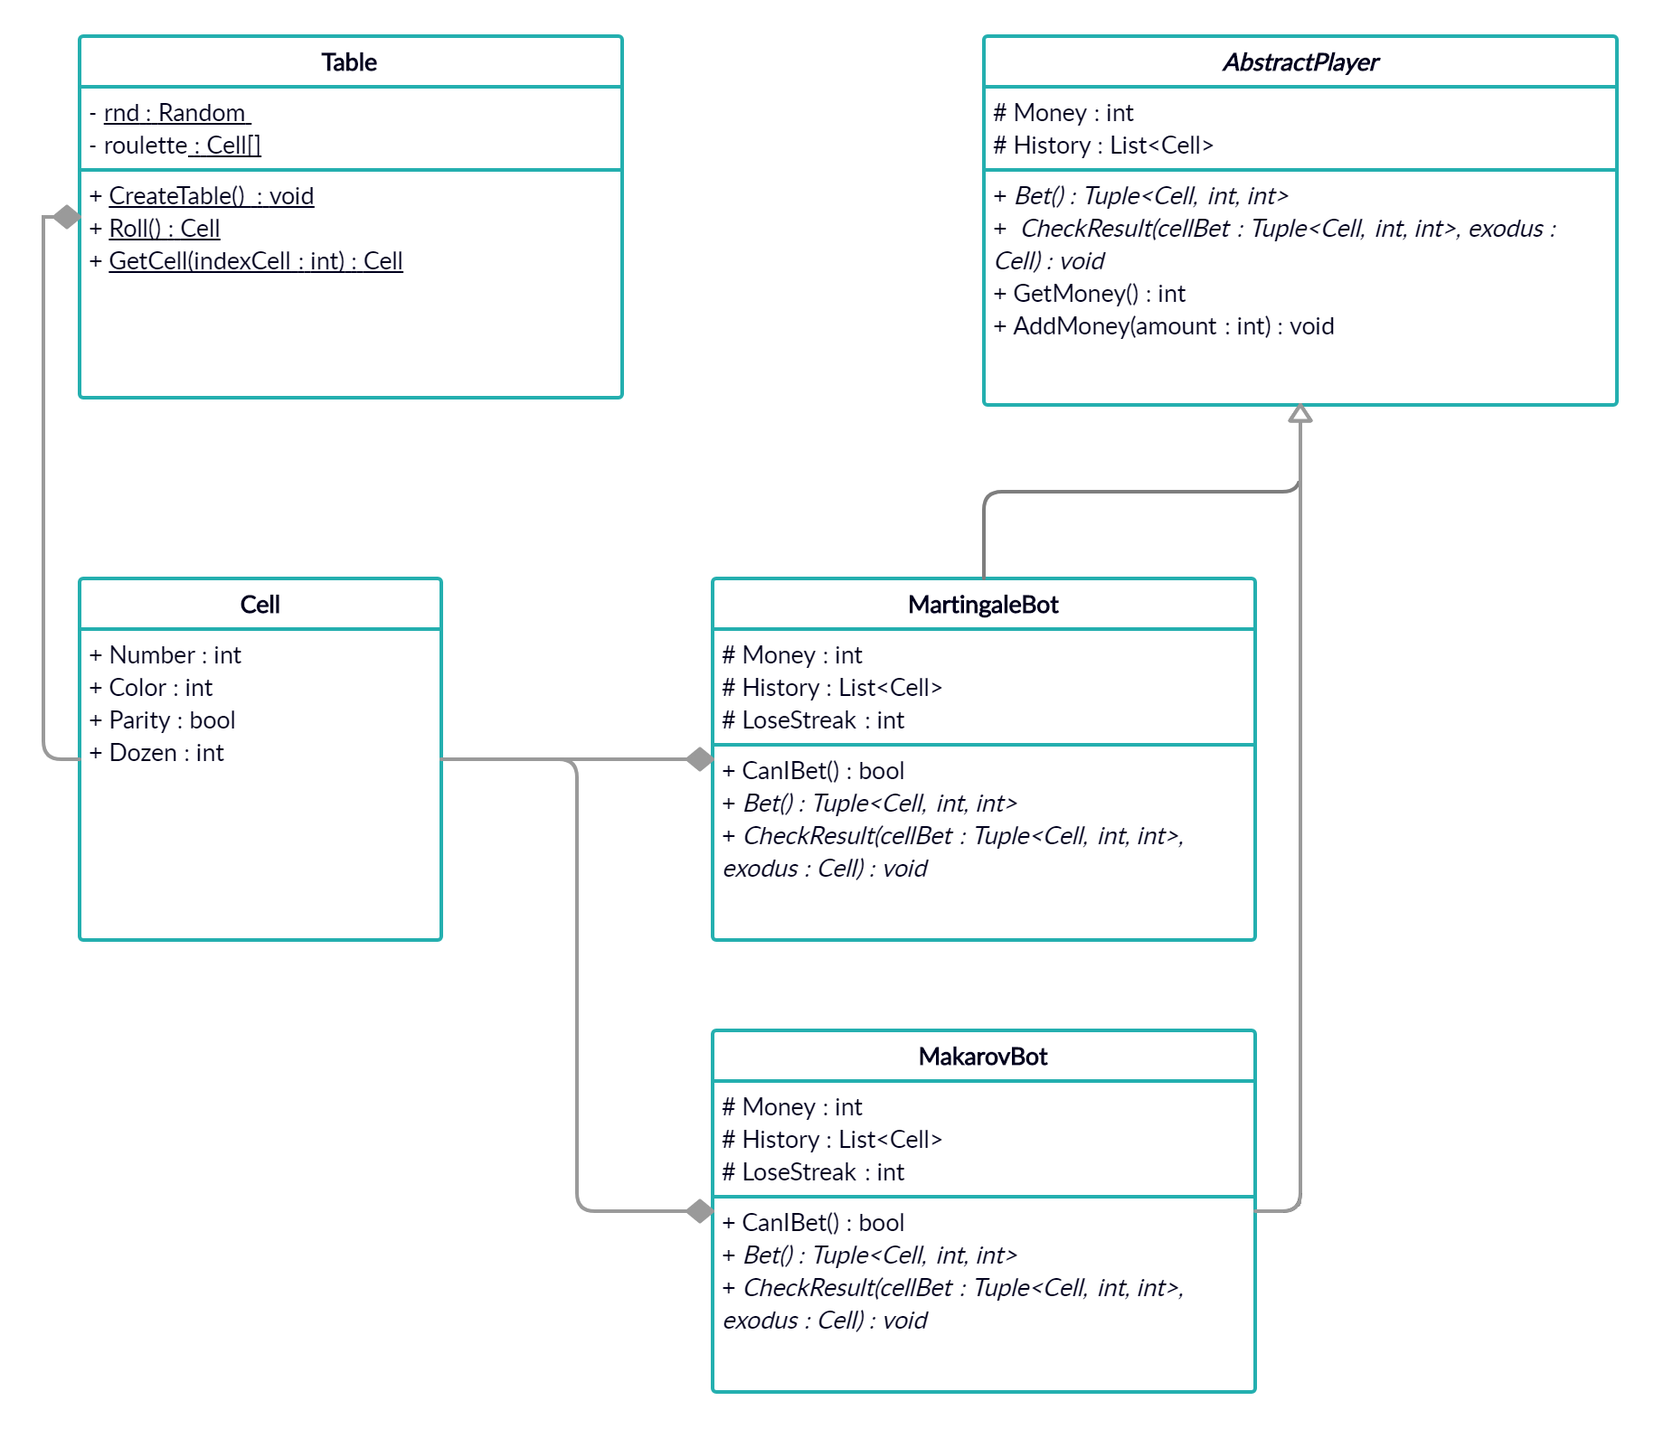
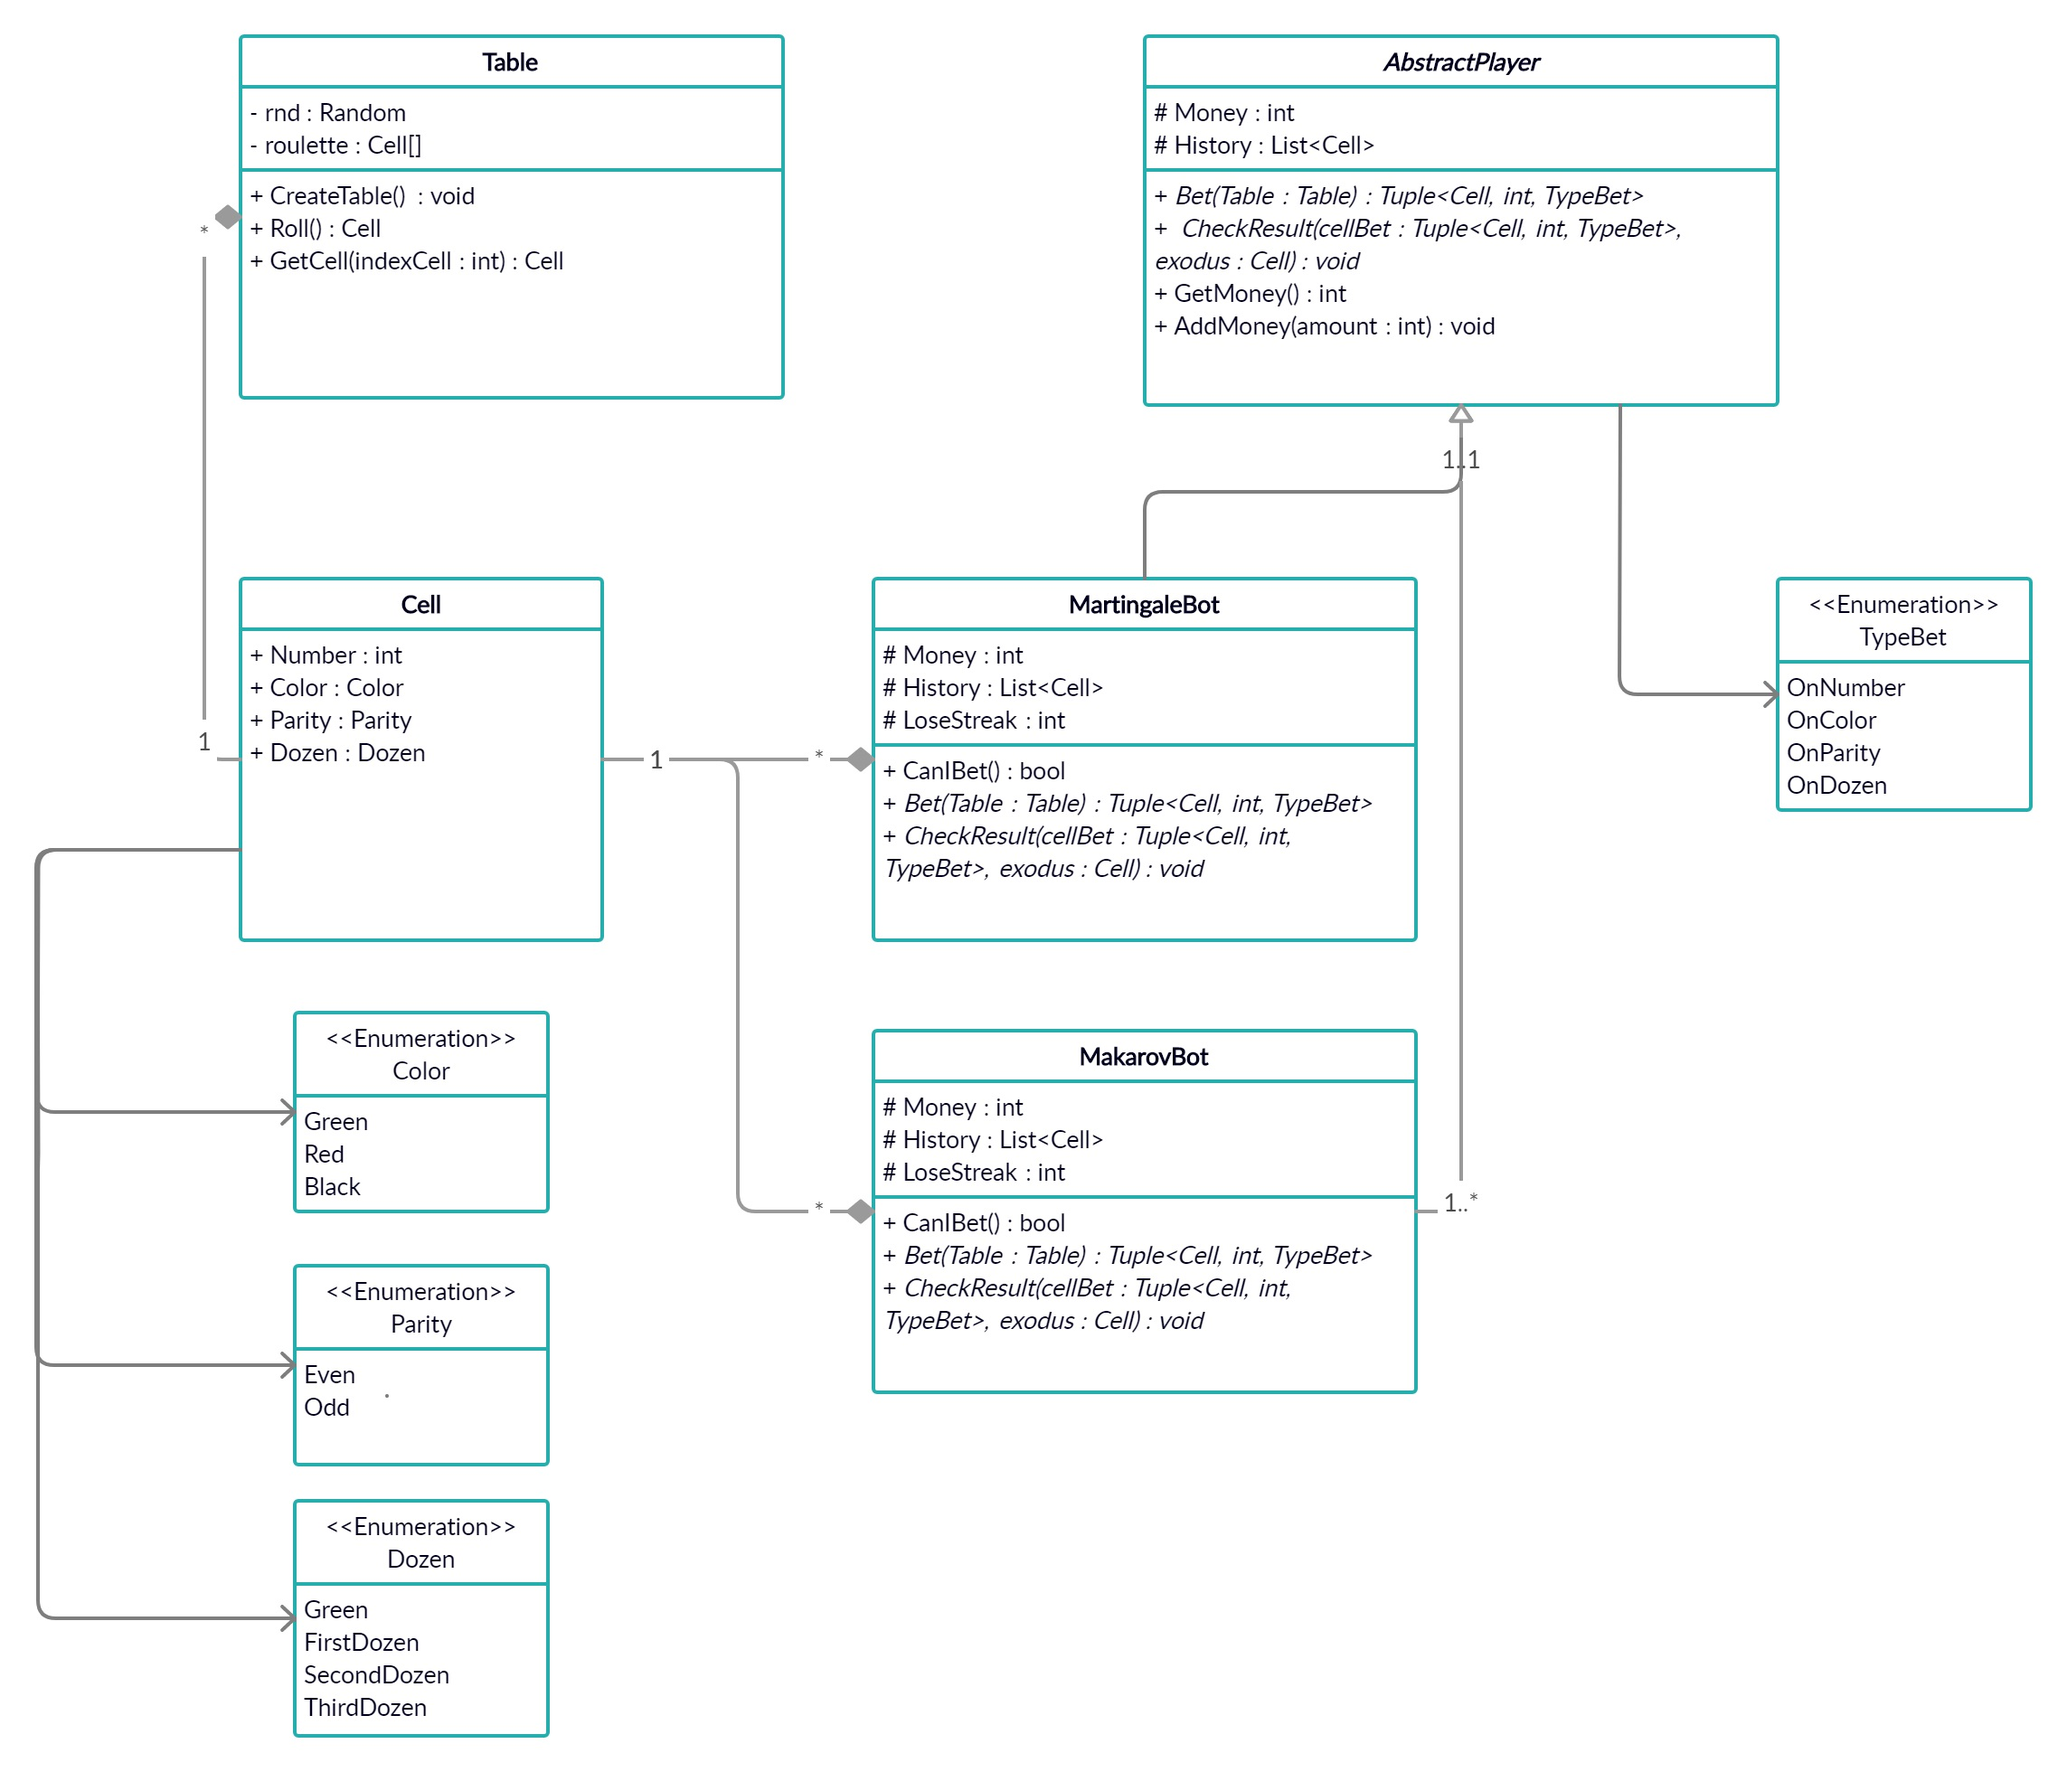
- Исправления
- Класс Table больше не Static
- Большинство структур сделаны теперь сделаны через Enum

diff --git a/Tasks/2ndSemester/CasinoIncidentRoulette/CasinoIncidentRoulette.Roulette/Roulette.cs b/Tasks/2ndSemester/CasinoIncidentRoulette/CasinoIncidentRoulette.Roulette/Roulette.cs
@@ -2,38 +2,59 @@
 
 namespace CasinoIncidentRoulette.Roulette
 {
+    public enum Color
+    {
+        Green,
+        Red,
+        Black
+    }
+
+    public enum Parity
+    {
+        Even,
+        Odd
+    }
+
+    public enum Dozen
+    {
+        Green,
+        FirstDozen,
+        SecondDozen,
+        ThirdDozen
+    }
+
     public struct Cell
     {
         public int Number;
-        public int Color; //0 - green, 1 - red, 2 - black
-        public bool Parity; //false - odd, true - even
-        public int Dozen; //0 - for green, 1 - 1st dozen, 2 - 2nd dozen, 3 - 3rd dozen
+        public Color Color;
+        public Parity Parity;
+        public Dozen Dozen;
     }
 
-    public static class Table
+    public class Table
     {
 
-        private static Random rnd = new Random();
-        private static Cell[] roulette = new Cell[37];
+        private Random rnd = new Random();
+        private Cell[] roulette = new Cell[37];
 
-        public static void CreateTable()
+        public void CreateTable()
         {
-            roulette[0].Number = 0; roulette[0].Color = 0; roulette[0].Parity = true; roulette[0].Dozen = 0;
+            roulette[0].Number = 0; roulette[0].Color = Color.Green; roulette[0].Parity = Parity.Even; roulette[0].Dozen = Dozen.Green;
             for (int i = 1; i < 37; i++)
             {
                 roulette[i].Number = i;
-                roulette[i].Color = i % 2 + 1;
-                roulette[i].Parity = i % 2 == 0;
-                roulette[i].Dozen = (i - 1) % 12 + 1;
+                roulette[i].Color = (Color)(i % 2 + 1);
+                roulette[i].Parity = (Parity)(i % 2);
+                roulette[i].Dozen = (Dozen)((i - 1) / 12 + 1);
             }
         }
 
-        public static Cell Roll()
+        public Cell Roll()
         {
             return roulette[rnd.Next(0, 37)];
         }
 
-        public static Cell GetCell(int indexCell)
+        public Cell GetCell(int indexCell)
         {
             return roulette[indexCell];
         }

diff --git a/Tasks/2ndSemester/CasinoIncidentRoulette/CasinoIncidentRoulette.Bots/MartingaleBot.cs b/Tasks/2ndSemester/CasinoIncidentRoulette/CasinoIncidentRoulette.Bots/MartingaleBot.cs
@@ -20,22 +20,22 @@ namespace CasinoIncidentRoulette.Bots
             return Money >= 1 << LoseStreak;
         }
 
-           //in case of defeat, the bet amount is doubled
-        public override Tuple<Cell, int, int> Bet() // <a, b, c>, a - Cell, b - stake amount, c - type of bet(1 - bet on number, 2 - bet on color, 3 - bet on parity, 4 - bet on dozen)
+        //in case of defeat, the bet amount is doubled
+        public override Tuple<Cell, int, TypeBet> Bet(Table Table) // <a, b, c>, a - Cell, b - stake amount, c - type of bet
         {
-            return Tuple.Create(Table.GetCell(1), 1 << LoseStreak, 2);
+            return Tuple.Create(Table.GetCell(1), 1 << LoseStreak, TypeBet.OnColor);
         }
 
-        public override void CheckResult(Tuple<Cell, int, int> cellBet, Cell exodus)
+        public override void CheckResult(Tuple<Cell, int, TypeBet> cellBet, Cell exodus)
         {
             History.Add(exodus);
-            if (cellBet.Item3 == 1 && cellBet.Item1.Number == exodus.Number ||
-                cellBet.Item3 == 2 && cellBet.Item1.Color == exodus.Color ||
-                cellBet.Item3 == 3 && cellBet.Item1.Parity == exodus.Parity ||
-                cellBet.Item3 == 4 && cellBet.Item1.Dozen == exodus.Dozen)
+            if (cellBet.Item3 == TypeBet.OnNumber && cellBet.Item1.Number == exodus.Number || 
+                cellBet.Item3 == TypeBet.OnColor && cellBet.Item1.Color == exodus.Color || 
+                cellBet.Item3 == TypeBet.OnParity && cellBet.Item1.Parity == exodus.Parity || 
+                cellBet.Item3 == TypeBet.OnDozen && cellBet.Item1.Dozen == exodus.Dozen)
             {
                 LoseStreak = 0;
-                AddMoney(cellBet.Item2 * ((cellBet.Item3 == 1) ? 35 : (cellBet.Item3 == 4) ? 2 : 1));
+                AddMoney(cellBet.Item2 * ((cellBet.Item3 == TypeBet.OnNumber) ? 35 : (cellBet.Item3 == TypeBet.OnDozen) ? 2 : 1));
             }
             else
             {

diff --git a/Tasks/2ndSemester/CasinoIncidentRoulette/CasinoIncidentRoulette.Bots/MakarovBot.cs b/Tasks/2ndSemester/CasinoIncidentRoulette/CasinoIncidentRoulette.Bots/MakarovBot.cs
@@ -19,20 +19,20 @@ namespace CasinoIncidentRoulette.Bots
         }
 
         //Favorite number bet
-        public override Tuple<Cell, int, int> Bet() // <a, b, c>, a - Cell, b - stake amount, c - type of bet(1 - bet on number, 2 - bet on color, 3 - bet on parity, 4 - bet on dozen)
+        public override Tuple<Cell, int, TypeBet> Bet(Table Table) // <a, b, c>, a - Cell, b - stake amount, c - type of bet
         {
-            return Tuple.Create(Table.GetCell(25), 1, 1);
+            return Tuple.Create(Table.GetCell(25), 1, TypeBet.OnNumber);
         }
 
-        public override void CheckResult(Tuple<Cell, int, int> cellBet, Cell exodus)
+        public override void CheckResult(Tuple<Cell, int, TypeBet> cellBet, Cell exodus)
         {
             History.Add(exodus);
-            if (cellBet.Item3 == 1 && cellBet.Item1.Number == exodus.Number ||
-                cellBet.Item3 == 2 && cellBet.Item1.Color == exodus.Color ||
-                cellBet.Item3 == 3 && cellBet.Item1.Parity == exodus.Parity ||
-                cellBet.Item3 == 4 && cellBet.Item1.Dozen == exodus.Dozen)
+            if (cellBet.Item3 == TypeBet.OnNumber && cellBet.Item1.Number == exodus.Number ||
+                cellBet.Item3 == TypeBet.OnColor && cellBet.Item1.Color == exodus.Color ||
+                cellBet.Item3 == TypeBet.OnParity && cellBet.Item1.Parity == exodus.Parity ||
+                cellBet.Item3 == TypeBet.OnDozen && cellBet.Item1.Dozen == exodus.Dozen)
             {
-                AddMoney(cellBet.Item2 * ((cellBet.Item3 == 1) ? 35 : (cellBet.Item3 == 4) ? 2 : 1));
+                AddMoney(cellBet.Item2 * ((cellBet.Item3 == TypeBet.OnNumber) ? 35 : (cellBet.Item3 == TypeBet.OnDozen) ? 2 : 1));
             }
             else
             {

diff --git a/Tasks/2ndSemester/CasinoIncidentRoulette/CasinoIncidentRoulette.Tests/TestCasino.cs b/Tasks/2ndSemester/CasinoIncidentRoulette/CasinoIncidentRoulette.Tests/TestCasino.cs
@@ -1,6 +1,7 @@
 using System;
 using CasinoIncidentRoulette.Roulette;
 using CasinoIncidentRoulette.Bots;
+using CasinoIncidentRoulette.Player;
 using Microsoft.VisualStudio.TestTools.UnitTesting;
 
 namespace CasinoIncidentRoulette.UnitTests
@@ -11,23 +12,24 @@ namespace CasinoIncidentRoulette.UnitTests
         [TestMethod]
         public void CasinoIncidentRouletteTest()
         {
-            Table.CreateTable();
+            Table table1 = new Table();
+            table1.CreateTable();
             Cell exodus;
 
             MartingaleBot martingaleBot = new MartingaleBot();
-            Tuple<Cell, int, int> martingaleBet = martingaleBot.Bet();
+            Tuple<Cell, int, AbstractPlayer.TypeBet> martingaleBet = martingaleBot.Bet(table1);
 
             MakarovBot makarovBot = new MakarovBot();
-            Tuple<Cell, int, int> makarovBet = makarovBot.Bet();
+            Tuple<Cell, int, AbstractPlayer.TypeBet> makarovBet = makarovBot.Bet(table1);
 
             for (int i = 0; i < 400; i++)
             {
                 if (martingaleBot.CanIBet())
-                    martingaleBet = martingaleBot.Bet();
+                    martingaleBet = martingaleBot.Bet(table1);
                 if (makarovBot.CanIBet())
-                    makarovBet = makarovBot.Bet();
+                    makarovBet = makarovBot.Bet(table1);
 
-                exodus = Table.Roll();
+                exodus = table1.Roll();
 
                 if (martingaleBot.CanIBet())
                     martingaleBot.CheckResult(martingaleBet, exodus);

diff --git a/Tasks/2ndSemester/CasinoIncidentRoulette/CasinoIncidentRoulette/Program.cs b/Tasks/2ndSemester/CasinoIncidentRoulette/CasinoIncidentRoulette/Program.cs
@@ -1,6 +1,7 @@
 using System;
 using CasinoIncidentRoulette.Roulette;
 using CasinoIncidentRoulette.Bots;
+using CasinoIncidentRoulette.Player;
 
 namespace CasinoIncidentRoulette
 {
@@ -8,23 +9,24 @@ namespace CasinoIncidentRoulette
     {
         static void Main(string[] args)
         {
-            Table.CreateTable();
+            Table table1 = new Table();
+            table1.CreateTable();
             Cell exodus;
 
             MartingaleBot martingaleBot = new MartingaleBot();
-            Tuple<Cell, int, int> martingaleBet = martingaleBot.Bet();
+            Tuple<Cell, int, AbstractPlayer.TypeBet> martingaleBet = martingaleBot.Bet(table1);
 
             MakarovBot makarovBot = new MakarovBot();
-            Tuple<Cell, int, int> makarovBet = makarovBot.Bet();
+            Tuple<Cell, int, AbstractPlayer.TypeBet> makarovBet = makarovBot.Bet(table1);
 
             for (int i = 0; i < 400; i++)
             {
                 if (martingaleBot.CanIBet())
-                    martingaleBet = martingaleBot.Bet();
+                    martingaleBet = martingaleBot.Bet(table1);
                 if (makarovBot.CanIBet())
-                    makarovBet = makarovBot.Bet();
+                    makarovBet = makarovBot.Bet(table1);
 
-                exodus = Table.Roll();
+                exodus = table1.Roll();
 
                 if (martingaleBot.CanIBet())
                     martingaleBot.CheckResult(martingaleBet, exodus);

diff --git a/Tasks/2ndSemester/CasinoIncidentRoulette/CasinoIncidentRoulette.Player/Player.cs b/Tasks/2ndSemester/CasinoIncidentRoulette/CasinoIncidentRoulette.Player/Player.cs
@@ -6,10 +6,17 @@ namespace CasinoIncidentRoulette.Player
 {
     public abstract class AbstractPlayer
     {
+        public enum TypeBet
+        {
+            OnNumber,
+            OnColor,
+            OnParity,
+            OnDozen
+        }
         public int Money { get; protected set; }
         public List<Cell> History { get; protected set; }
-        public abstract Tuple<Cell, int, int> Bet();
-        public abstract void CheckResult(Tuple<Cell, int, int> cellBet, Cell exodus);
+        public abstract Tuple<Cell, int, TypeBet> Bet(Table Table);
+        public abstract void CheckResult(Tuple<Cell, int, TypeBet> cellBet, Cell exodus);
         public int GetMoney()
         {
             return Money;
